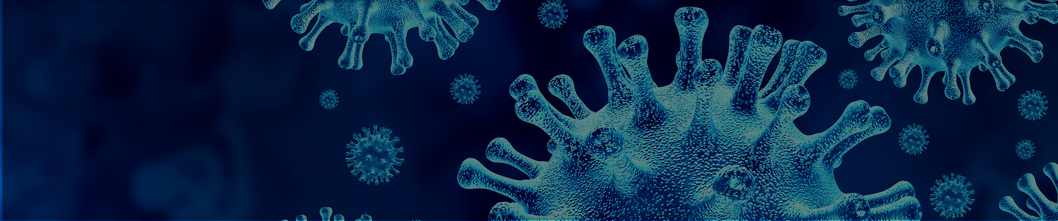
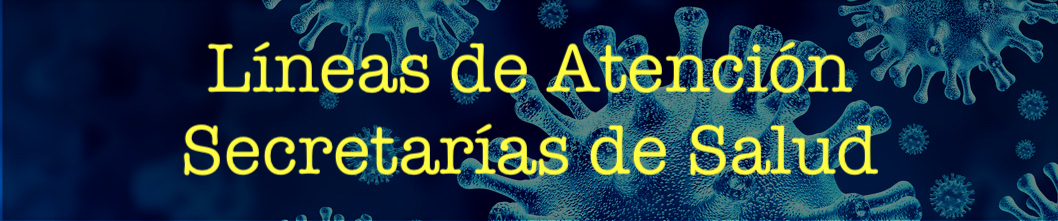
new images

Changed region(s): [[0.156, 0.543, 0.8422, 0.8145], [0.1871, 0.19, 0.811, 0.4344]]

diff --git a/src/components/Autodiagnostic.vue b/src/components/Autodiagnostic.vue
@@ -7,11 +7,10 @@
             <b-col :xs="12" :lg="10">
                 <b-card
                     overlay
-                    img-src="../image/coronavirus_portada.jpg"
+                    img-src="../image/coronavirus_portada-auto.jpeg"
                     img-alt="Card Image"
                     text-variant="white"
                 >
-                <h2 align="left" id="titleauto" > Autodiagnóstico </h2>
                 </b-card>
                 <b-card-body>
                     <div class="question1" align="left">

diff --git a/src/components/Preguntas.vue b/src/components/Preguntas.vue
@@ -5,11 +5,10 @@
             <div>
                 <b-card
                     overlay
-                    img-src="../image/coronavirus_portada.jpg"
+                    img-src="../image/coronavirus_portada1.jpg"
                     img-alt="Card Image"
                     text-variant="white"
                 >
-                <h4 id="preguntas" align="left">Preguntas Frecuentes</h4>
                 </b-card>
             </div>
             <div class="accordion" role="tablist">

diff --git a/src/components/Mitos.vue b/src/components/Mitos.vue
@@ -2,11 +2,10 @@
     <b-container>
         <b-card
             overlay
-            img-src="../image/coronavirus_portada.jpg"
+            img-src="../image/coronavirus_portada2.jpg"
             img-alt="Card Image"
             text-variant="white"
         >
-            <h1 id="preguntas">Mitos y Realidades</h1>
         </b-card>
         <div class="row">
             <b-col :xs="12" :lg="6">

diff --git a/src/components/Covid19.vue b/src/components/Covid19.vue
@@ -3,11 +3,10 @@
     <div>
         <b-card
             overlay
-            img-src="../image/coronavirus_portada.jpg"
+            img-src="../image/coronavirus_portada3.jpeg"
             img-alt="Card Image"
             text-variant="white"
         >
-        <h1 id="preguntas">Lineas de atención Secretarías de Salud</h1>
         </b-card>
     </div>
     <div class="fila1">

diff --git a/src/components/Eps.vue b/src/components/Eps.vue
@@ -3,11 +3,10 @@
     <div>
         <b-card
             overlay
-            img-src="../image/coronavirus_portada.jpg"
+            img-src="../image/coronavirus_portada4.jpeg"
             img-alt="Card Image"
             text-variant="white"
         >
-        <h1 id="preguntas">Líneas telefónicas - EPS</h1>
         </b-card>
     </div>
     <div class="fila1">
